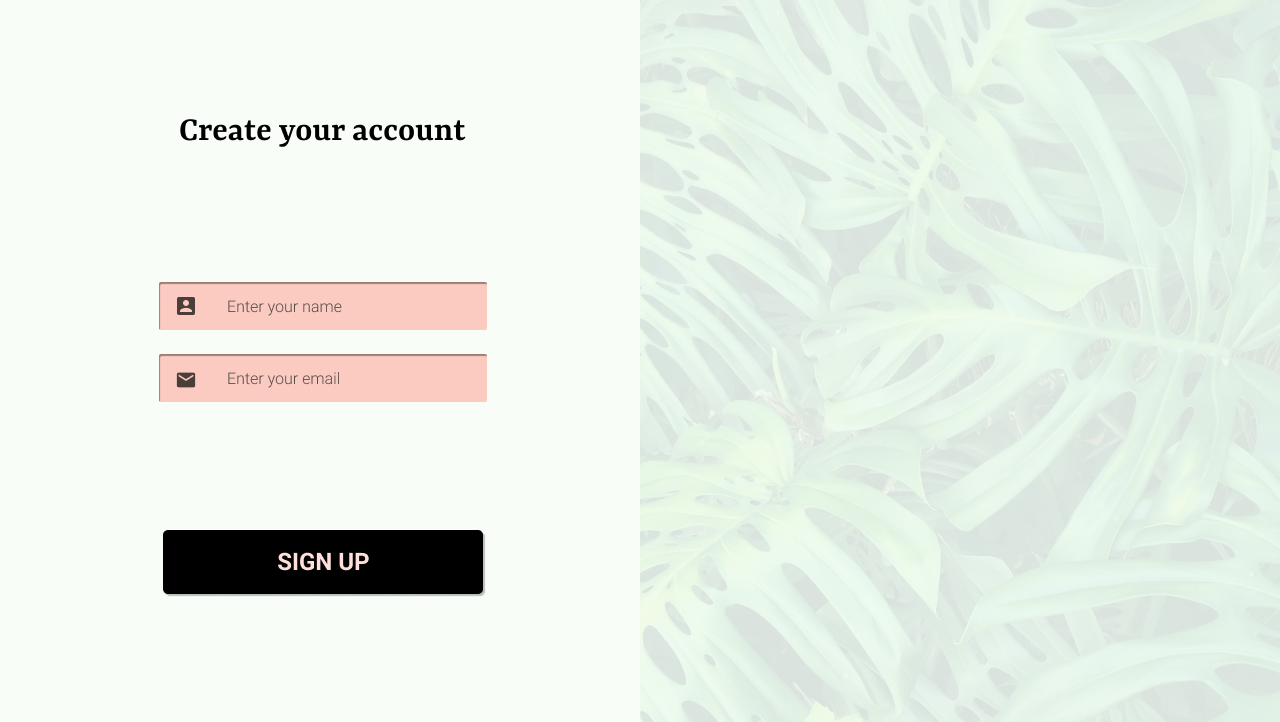
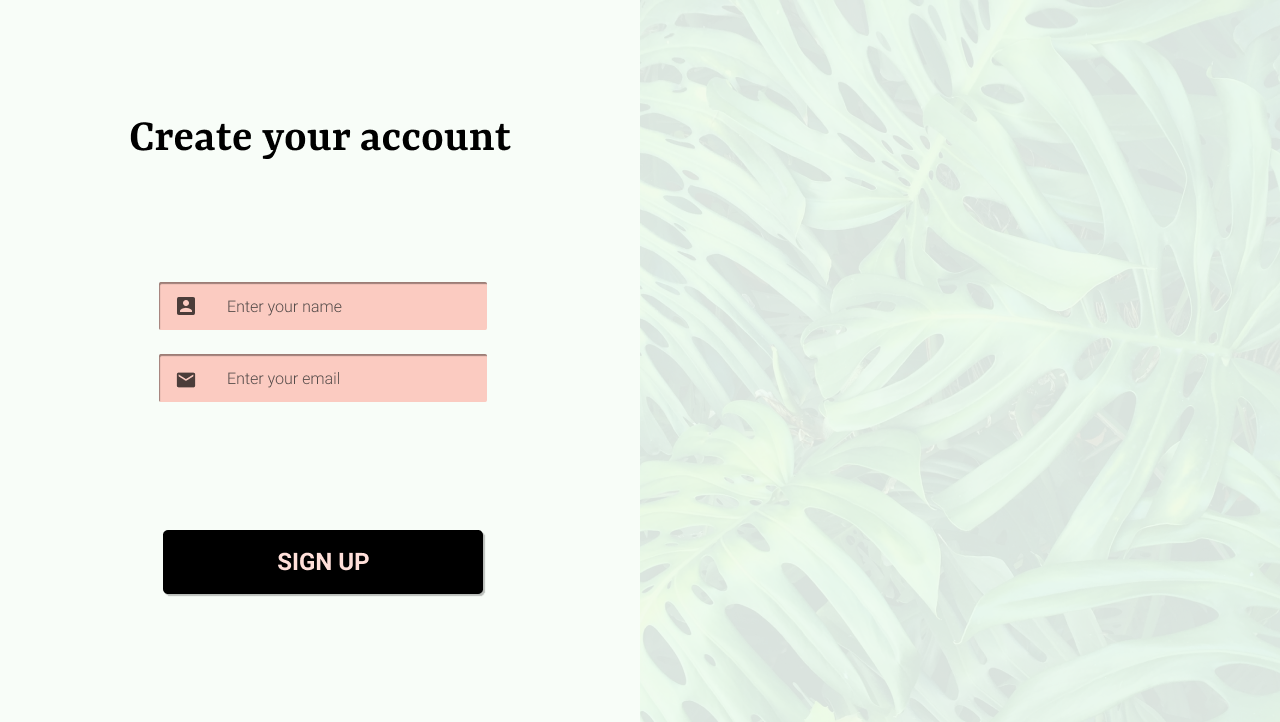
html structure and started css

Changed region(s): [[0.0938, 0.1524, 0.4062, 0.2133]]

diff --git a/resources/css/style.css b/resources/css/style.css
@@ -1,0 +1,70 @@
+/* Universal Styles */
+
+html {
+  font-family: "Roboto", sans-serif;
+  font-size: 16px;
+}
+
+/* Added this to make divs sizes relative to viewport */
+
+html, body {
+	height: 100%;
+}
+
+body {
+	display: flex;
+
+}
+
+/* Content*/
+
+h1 {
+	font-family: "Yrsa", serif;
+	font-style: bold;
+	font-size: 2rem;
+}
+
+
+#content {
+	width: 50%;
+	height: 100%;
+	background: #E8F7E9;
+
+}
+
+/* Background image */
+
+#background {
+	width: 50%;
+	height: 100%;
+	background: #E8F7E9 url(../images/monstera.jpg) no-repeat center;
+	background-size: cover;
+}
+
+/* Mobile */
+
+
+@media only screen and (max-width: 760px) {
+
+/* Removed flex property to make one div go behind the other */
+
+	body {
+		display: block;
+	}
+
+	#content {
+		width: 100%;
+		position: absolute;
+		background: transparent;
+	}
+
+/* Positioned background div below content div and made image lighter with a gradient. */
+
+	#background {
+		width: 100%;
+		position: absolute;
+		z-index: -1;
+		background: linear-gradient(to bottom, rgba(240,250,244,0.9) 0%, rgba(240,250,244,0.9) 100%), url(../images/monstera.jpg) no-repeat center;
+		background-size: cover;
+	}
+}

diff --git a/index.html b/index.html
@@ -1,0 +1,25 @@
+<!DOCTYPE html>
+<html>
+	<head>
+		<title>Create your account - Monstera Madness</title>
+		 <link href="https://fonts.googleapis.com/css?family=Roboto:300,700" rel="stylesheet">
+		 <link href="https://fonts.googleapis.com/css?family=Yrsa:700" rel="stylesheet">
+		<link href="./resources/css/reset.css" rel="stylesheet">
+		<link href="./resources/css/style.css" rel="stylesheet">
+		<meta name="viewport" content="width=device-width, initial-scale=1.0">
+	</head>
+	<body>
+		<div id="content">
+			<h1>Create your account</h1>
+			<form action="" method="get">
+				<label for="name">Enter your name</label>
+				<input id="name" type="text" name="name">
+				<label for="email">Enter your email</label>
+				<input id="email" type="email" name="email">
+				<input type="submit" value="Sign Up">
+			</form>
+		</div>
+		<div id="background">
+		</div>
+	</body>
+</html>
